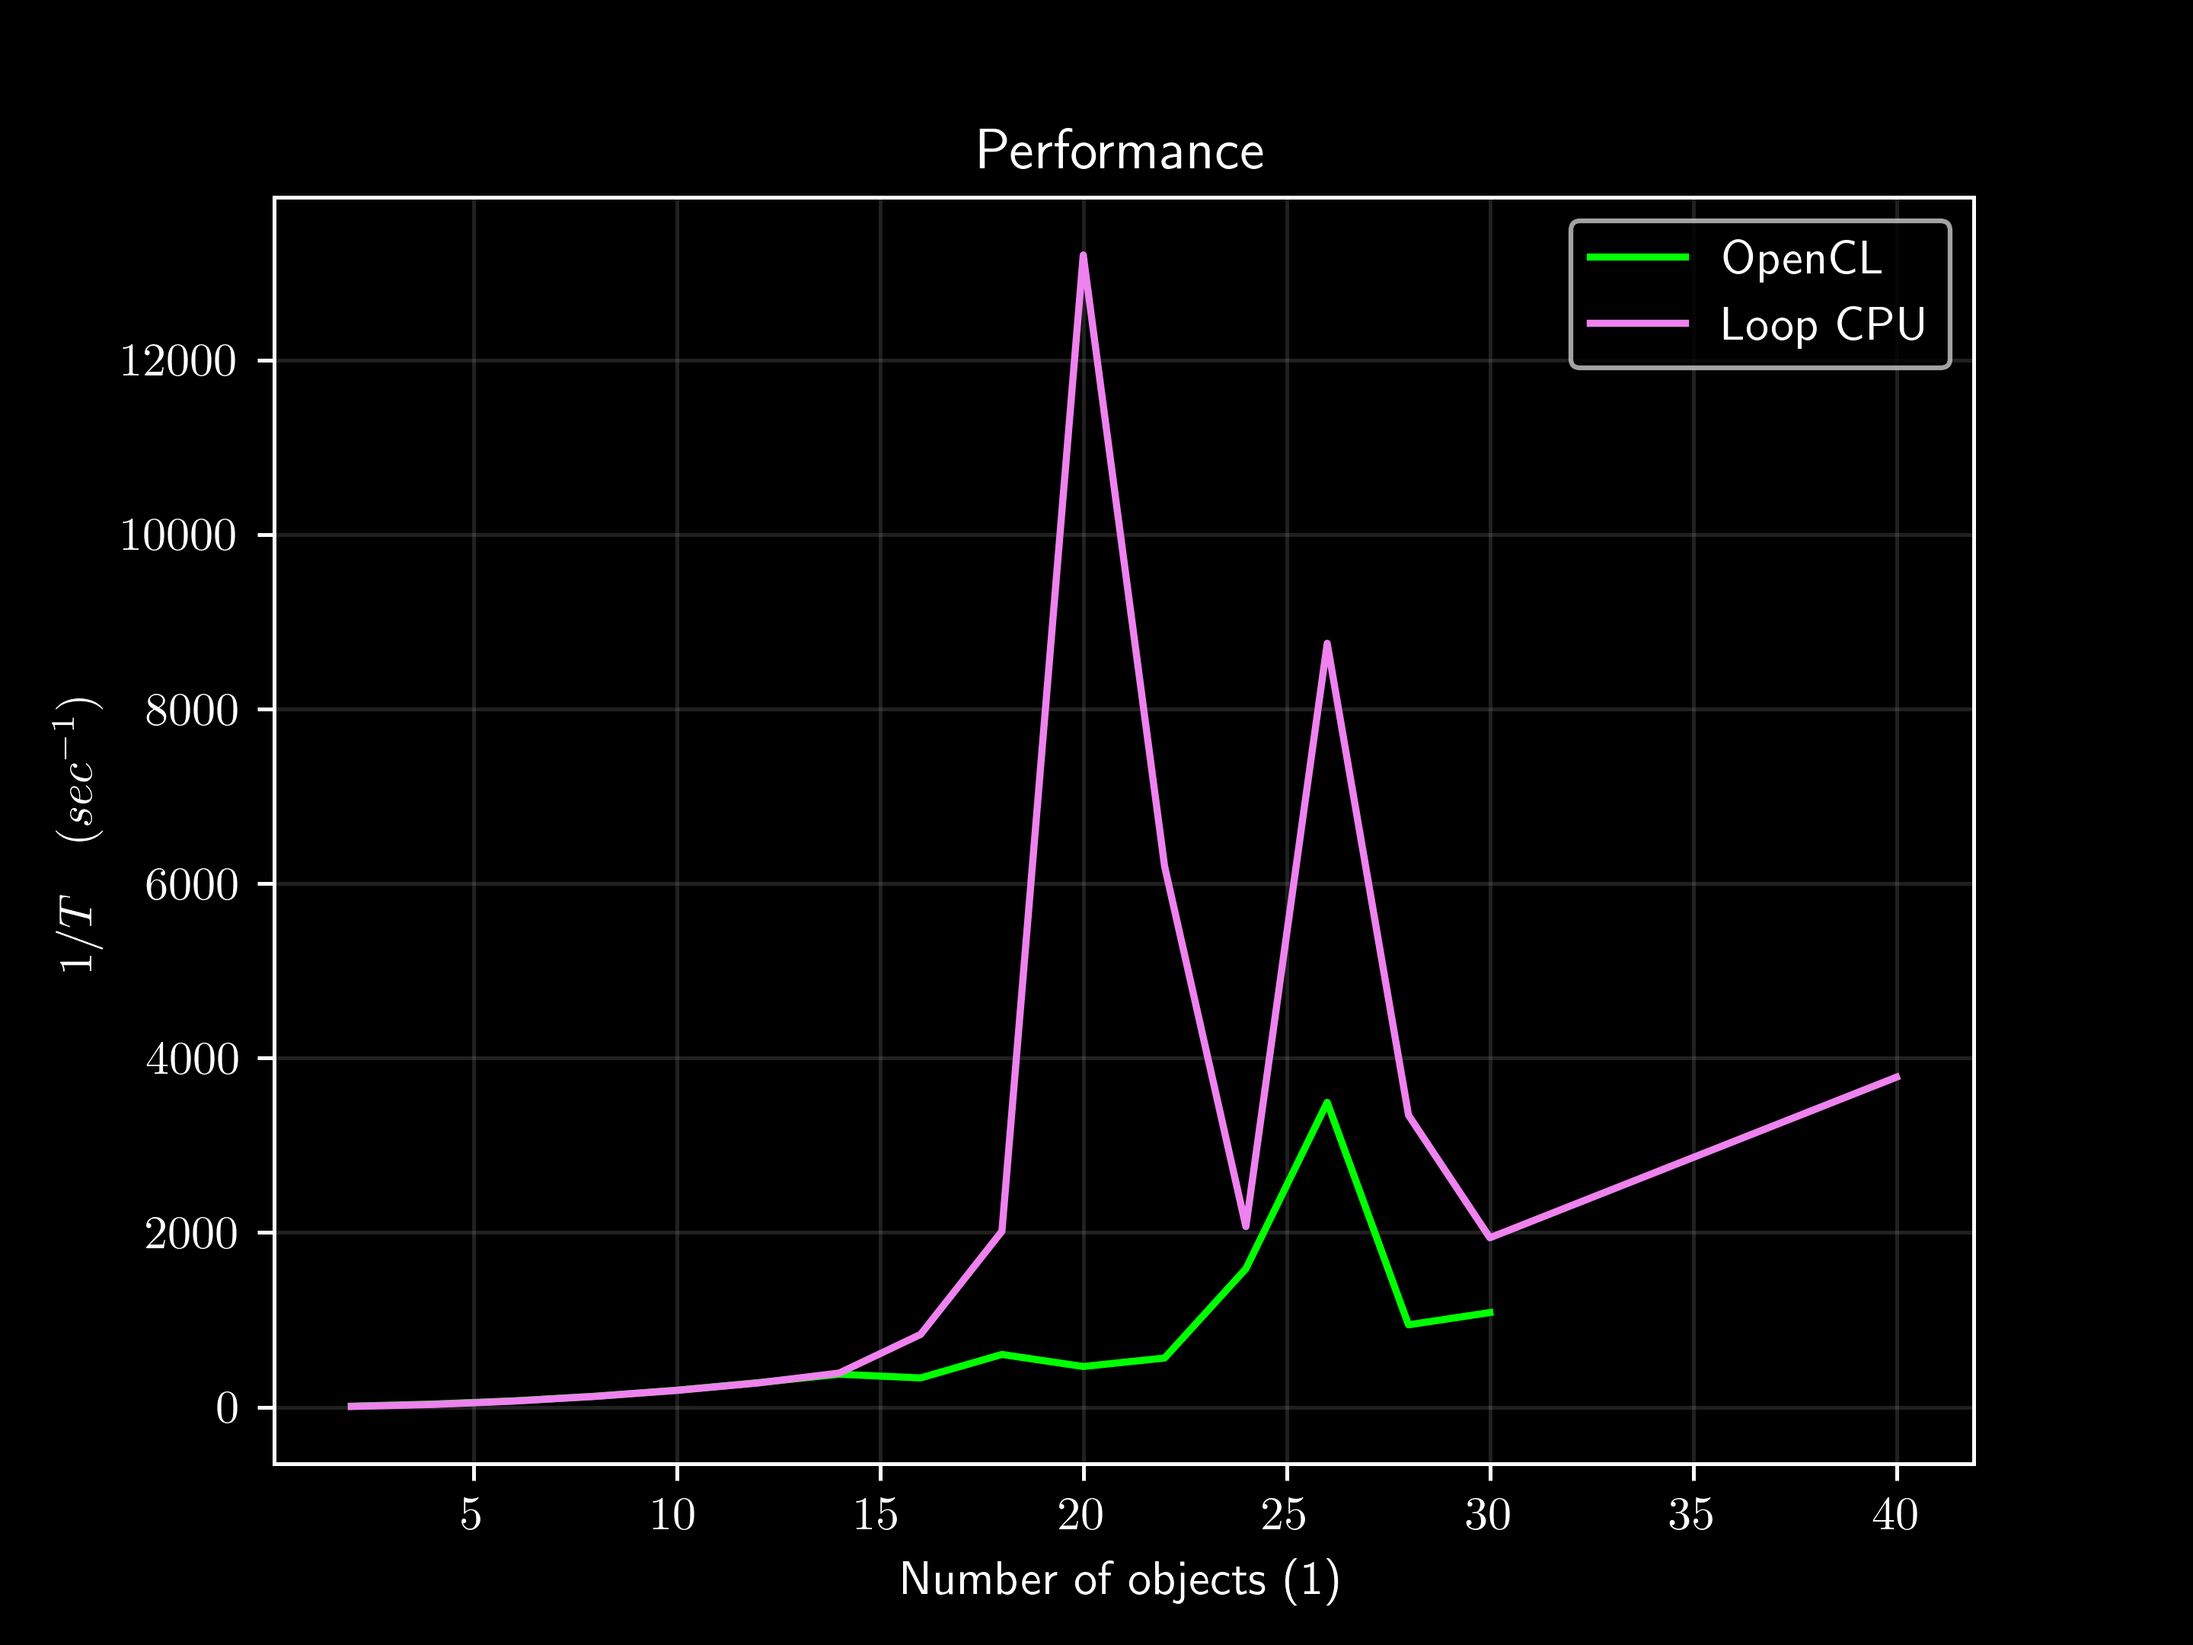
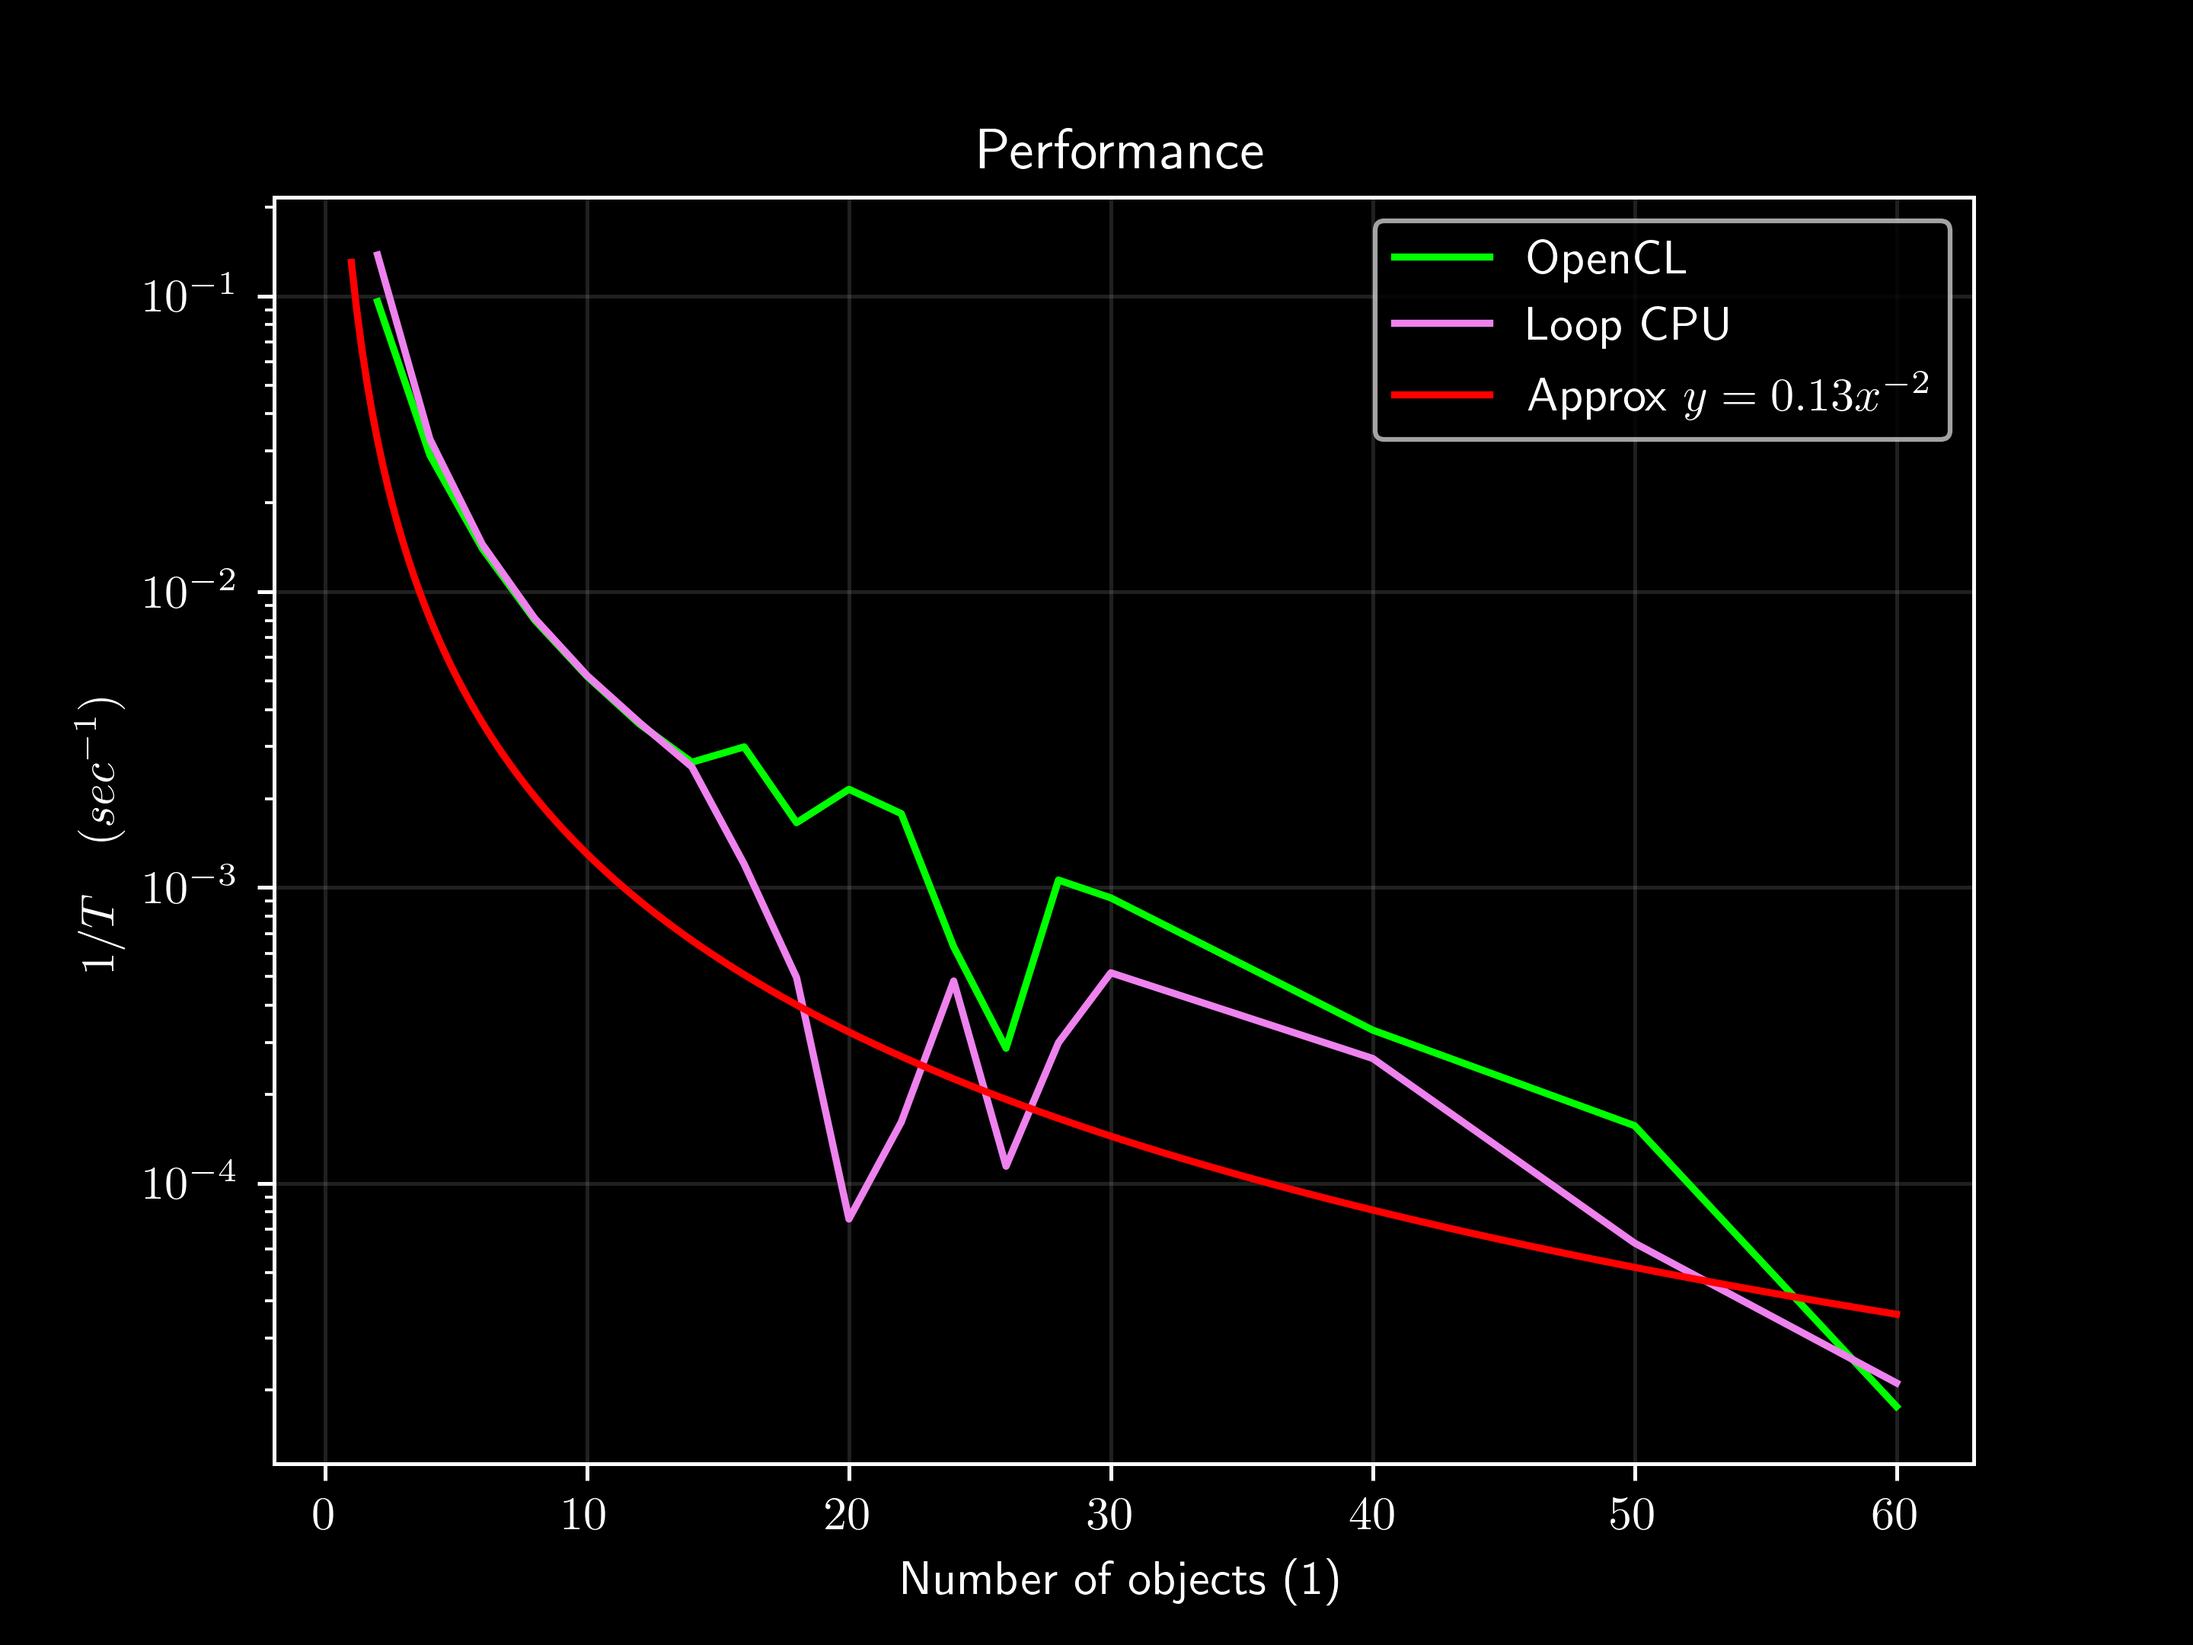
Little things.

diff --git a/Matrix/Matrixication.py b/Matrix/Matrixication.py
@@ -2,45 +2,61 @@ import pyopencl as cl
 import numpy as np
 import numpy.linalg as la
 import datetime
+import random
+import math
+
 
 def scal(v):  # Lenth of the vector
     return np.linalg.norm(v, ord=2)
-def v(v1): #вектор
+
+
+def v(v1):  # вектор
     v = np.array(v1)
     return v
-def unvec(v): #еденичный вектор
+
+
+def unvec(v):  # еденичный вектор
     uv = v / scal(v)
     return uv
-def dist(v1, v2): #расстояние между двумя точками (концами векторов v1 и v2)
-    return scal(v1-v2)
+
+
+def dist(v1, v2):  # расстояние между двумя точками (концами векторов v1 и v2)
+    return scal(v1 - v2)
+
+
 def v12(v1, v2):
-    return (v2-v1)
+    return (v2 - v1)
+
+
 def v12(v2, v1):
-    return (v1-v2)
-def ranvec(r): #Случайный радиус-вектор длинны r
-    rv = v(  [uniform(-r, r), 2*(getrandbits(1)-0.5) *(r**2 - uniform(-r, r)**2)**0.5]  )
+    return (v1 - v2)
+
+
+def ranvec(r):  # Случайный радиус-вектор длинны r
+    rv = v([uniform(-r, r), 2 * (getrandbits(1) - 0.5) * (r ** 2 - uniform(-r, r) ** 2) ** 0.5])
     return rv
-def ranrv(r): #Случайный радиус-вектор длинны r
-    a = uniform(0, 2*math.pi)
+
+
+def ranrv(r):  # Случайный радиус-вектор длинны r
+    a = uniform(0, 2 * math.pi)
     rr = uniform(0, r)
-    rv = v( [rr*math.cos(a), rr*math.sin(a)]  )
+    rv = v([rr * math.cos(a), rr * math.sin(a)])
     return rv
+
 
 def openCL_multiplication(matrix1, matrix2):
-
     ctx = cl.create_some_context()
     queue = cl.CommandQueue(ctx)
 
     mf = cl.mem_flags
     a_buf = cl.Buffer(ctx, mf.READ_ONLY | mf.COPY_HOST_PTR, hostbuf=matrix1)
     b_buf = cl.Buffer(ctx, mf.READ_ONLY | mf.COPY_HOST_PTR, hostbuf=matrix2)
-    dest_buf = cl.Buffer(ctx, mf.WRITE_ONLY, matrix1.nbytes )
-
+    dest_buf = cl.Buffer(ctx, mf.WRITE_ONLY, matrix1.nbytes)
 
     prg = cl.Program(ctx, """
         __kernel void multiplymatrices(const unsigned int size, __global float * matrix1, __global float * matrix2, __global float * res) {
     
-        int i = get_global_id(1); 
+        int i = get_global_id(1);
         int j = get_global_id(0);
     
         res[i + size * j] = 0;
@@ -52,29 +68,30 @@ def openCL_multiplication(matrix1, matrix2):
     
         }
         """).build()
-    #res[i + size * j] += matrix1[i + size * k] * matrix2[k + size * j];
+    # res[i + size * j] += matrix1[i + size * k] * matrix2[k + size * j];
 
     t0 = datetime.datetime.now()
 
-    prg.multiplymatrices(queue, matrix1.shape, None,np.int32(len(matrix1)) ,a_buf, b_buf, dest_buf)
+    prg.multiplymatrices(queue, matrix1.shape, None, np.int32(len(matrix1)), a_buf, b_buf, dest_buf)
 
     final_matrix = np.empty_like(matrix1)
-    cl.enqueue_copy(queue, final_matrix , dest_buf)
+    cl.enqueue_copy(queue, final_matrix, dest_buf)
 
-    print( final_matrix )
+    print(final_matrix)
 
     delta_t = datetime.datetime.now() - t0
-    print( 'OpenCL Multiplication: ' + str(delta_t) )
+    print('OpenCL Multiplication: ' + str(delta_t))
 
     return final_matrix
 
-def optimised_oCL_mult(matrix1, matrix2):
 
+def optimised_oCL_mult(matrix1, matrix2):
     # # Create two matrices
-    # A = np.random.rand(1000, 1000).astype(np.float32)
-    # B = np.random.rand(1000, 1000).astype(np.float32)
+    A = np.random.rand(1000, 1000).astype(np.float32)
+    B = np.random.rand(1000, 1000).astype(np.float32)
     A = matrix1.astype(np.float32)
     B = matrix2.astype(np.float32)
+    print(A)
 
     # Create OpenCL context and queue
     ctx = cl.create_some_context()
@@ -121,19 +138,19 @@ def optimised_oCL_mult(matrix1, matrix2):
 
 
 matrix1 = v([[0.99114645, 0.09327769, 0.90075564, 0.8913309],
-           [0.59739089, 0.13906649, 0.94246316, 0.65673178],
-           [0.24535166, 0.68942326, 0.41361505, 0.5789603],
-           [0.31962237, 0.17714553, 0.49025267, 0.21861202]] )
+             [0.59739089, 0.13906649, 0.94246316, 0.65673178],
+             [0.24535166, 0.68942326, 0.41361505, 0.5789603],
+             [0.31962237, 0.17714553, 0.49025267, 0.21861202]])
 
-matrix2 = v( [[0.99114645, 0.09327769, 0.90075564, 0.8913309],
-          [0.59739089, 0.13906649, 0.94246316, 0.65673178],
-          [0.24535166, 0.68942326, 0.41361505, 0.5789603],
-          [0.31962237, 0.17714553, 0.49025267, 0.21861202]] )
+matrix2 = v([[0.99114645, 0.09327769, 0.90075564, 0.8913309],
+             [0.59739089, 0.13906649, 0.94246316, 0.65673178],
+             [0.24535166, 0.68942326, 0.41361505, 0.5789603],
+             [0.31962237, 0.17714553, 0.49025267, 0.21861202]])
 
-res = v( [[1.57981943, 1.63210835, 2.12016045, 1.80288424],
-       [1.3391085, 1.15248911, 1.7403561, 1.58199609],
-       [1.31099532, 0.70041376, 1.20338154, 1.14162762],
-       [0.71769556, 0.52246746, 0.88158722, 0.8039138]] )
+res = v([[1.57981943, 1.63210835, 2.12016045, 1.80288424],
+         [1.3391085, 1.15248911, 1.7403561, 1.58199609],
+         [1.31099532, 0.70041376, 1.20338154, 1.14162762],
+         [0.71769556, 0.52246746, 0.88158722, 0.8039138]])
 
 openCL_multiplication(matrix1, matrix2)
 

diff --git a/Matrix/Generator.py b/Matrix/Generator.py
@@ -1,48 +1,65 @@
 import NBodyLib as nbl
 import numpy as np
 import sys
+
 original_stdout = sys.stdout
 
+
 # center - vector
-def spherical(N, center,  medium_radius, crit_radius_delta, medium_mass, crit_mass_delta, cen_velocity, vel_scal, vel_crit_delta):
+def spherical(N, center, medium_radius, crit_radius_delta, medium_mass, crit_mass_delta, cen_velocity, vel_scal,
+              vel_crit_delta):
     objects = []
-    for i in range (0, N):
-        st_der = crit_mass_delta/3
-        objects.append([str(i), np.random.normal(medium_mass, st_der), list(center + nbl.ranvec(medium_radius)), list(cen_velocity + nbl.ranvec(vel_scal)), i, 'system', 'w'])
-        #можно добавить дельту к medium_radius
+    for i in range(0, N):
+        st_der = crit_mass_delta / 3
+        objects.append([str(i), np.random.normal(medium_mass, st_der), list(center + nbl.ranvec(medium_radius)),
+                        list(cen_velocity + nbl.ranvec(vel_scal)), i, 'system', 'w'])
+        # можно добавить дельту к medium_radius
     # print(*objects, sep = "\n")
     return objects
 
-def spherical_sc(N, center,  medium_radius, crit_radius_delta, medium_mass, crit_mass_delta, cen_velocity, vel_scal, vel_crit_delta):
+
+def spherical_sc(N, center, medium_radius, crit_radius_delta, medium_mass, crit_mass_delta, cen_velocity, vel_scal,
+                 vel_crit_delta):
     objects = []
     type = "dynamic"
-    for i in range (0, N):
+    for i in range(0, N):
         st_der = crit_mass_delta / 3
-        objects.append([str(type), str(i), np.random.normal(medium_mass, st_der), list(center + nbl.ranvec(medium_radius))[0],
-                        list(center + nbl.ranvec(medium_radius))[1], list(cen_velocity + nbl.ranvec(vel_scal))[0], list(cen_velocity + nbl.ranvec(vel_scal))[1], 'w', 0])
+        objects.append(
+            [str(type), str(i), np.random.normal(medium_mass, st_der), list(center + nbl.ranvec(medium_radius))[0],
+             list(center + nbl.ranvec(medium_radius))[1], list(cen_velocity + nbl.ranvec(vel_scal))[0],
+             list(cen_velocity + nbl.ranvec(vel_scal))[1], 'w', 0])
     print(*objects, sep="\n")
     return objects
+
 
 def mass_vectors(objects):
     masses = []
     inv_masses = []
     for o in objects:
         masses.append(o[1])
-        inv_masses.append(1/o[1])
+        inv_masses.append(1 / o[1])
     return [masses, inv_masses]
+
+
 def position_matrix(objects):
     positions = []
     for o in objects:
         positions.append(nbl.v(o[2]))
     return positions
+
+
 def velocity_matrix(objects):
     velocities = []
+
     def vel(o):
         return nbl.v(o[3])
+
     for o in objects:
         velocities.append(nbl.v(o[3]))
     # return map(vel, objects)
     return velocities
+
+
 def mass_matrix(ms):
     mx = []
     for i in ms:
@@ -50,8 +67,10 @@ def mass_matrix(ms):
         for j in ms:
             ln.append(i * j)
         mx.append(ln)
-    #print(mx, 'mass matris')
+    # print(mx, 'mass matris')
     return nbl.v(mx)
+
+
 def mass_inv_matrix(ms):
     mx = []
     for i in ms:
@@ -62,9 +81,11 @@ def mass_inv_matrix(ms):
             if i != j:
                 ln.append(0)
         mx.append(ln)
-    #print(mx, 'inv mass matrix')
+    # print(mx, 'inv mass matrix')
     return nbl.v(mx)
-def write_objects(objects): # problem! Writes last object
+
+
+def write_objects(objects):  # Writes objects to System.txt
     with open('System.txt', 'w') as system:
         ps = []
         for p in objects:
@@ -74,14 +95,18 @@ def write_objects(objects): # problem! Writes last object
         print(*ps, sep="\n")
     system.close()
     sys.stdout = original_stdout
+
+
 def write_table(objects):
-    names = ["Type", "Name", "Mass", "R x", "R y", "V x", "Vy", "Color", "Angle (Deg)"] # str(type),
+    names = ["Type", "Name", "Mass", "R x", "R y", "V x", "Vy", "Color", "Angle (Deg)"]  # str(type),
     tab = nbl.pd.DataFrame(data=objects)
     tab.to_csv('Table.csv', header=names, index=False)
 
+
 def formatting(s):
-    #print(*s, sep="\n")
-    return [mass_matrix(mass_vectors(s)[0]), mass_inv_matrix(mass_vectors(s)[1]), nbl.v(position_matrix(s)), nbl.v(velocity_matrix(s))]
+    # print(*s, sep="\n")
+    return [mass_matrix(mass_vectors(s)[0]), mass_inv_matrix(mass_vectors(s)[1]), nbl.v(position_matrix(s)),
+            nbl.v(velocity_matrix(s))]
 # По порядку: матрица произведений масс, матрица обратных масс, вектор координат системы, вектор скоростей системы
 # если исполнить файл, то эта функция сгенирирует объекты заданных параметров
 

diff --git a/Matrix/Testing/Test plotter.py b/Matrix/Testing/Test plotter.py
@@ -12,10 +12,9 @@ ts = data["Time"]
 ns2 = data2["Number"]
 ts2 = data2["Time"]
 
-highres_ns = np.linspace(1, 40, 200)
-# print(highres_ns)
+highres_ns = np.linspace(1, 60, 300)
 
-aprx1 = lambda x: 0.1*(x**(-9/5)) # Approximation with POWER
+aprx1 = lambda x: 0.13*(x**(-2)) # Approximation with POWER
 aprx2 = lambda x: 0.723 * np.exp(-0.4529*x) # Approximation with EXP
 
 # tsa = list(map(aprx1, ns))
@@ -30,14 +29,14 @@ ax.set(xlabel=r'Number of objects (1)', ylabel=r'$1/T \quad (sec^{-1})$',
        title='Performance')
 ax.grid(True, color='grey', alpha=0.25)
 
-ax.plot(ns, ts, c="lime", label=r'OpenCL')
-ax.plot(ns2, ts2, c="violet", label=r'Loop CPU')
+ax.plot(ns, 1/ts, c="lime", label=r'OpenCL')
+ax.plot(ns2, 1/ts2, c="violet", label=r'Loop CPU')
 
-# ax2 = ax.twiny()
-# ax2.plot(highres_ns, tsa, c="red", label=r'Approx $y = 0.1x^{-1.8}$') # Approximation with POWER
+ax.plot(highres_ns, tsa, c="red", label=r'Approx $y = 0.13x^{-2}$') # Approximation with POWER
 # ax.plot(ns, tsa2, c="blue", label=(r'Approx $y = 0.7e^{-0.45x}$')) # Approximation with EXP
 
 plt.legend()
+# plt.semilogy()
 # fig.tight_layout()
 
 fig.savefig("Test Loop + OpenCl.png", dpi=450)

diff --git a/Matrix/Tester.py b/Matrix/Tester.py
@@ -30,7 +30,7 @@ pulse_table = config["Pulse table"]
 
 # --- --- LOOP FOR SIMULATIONS, getting T, N from each --- ---
 
-for i in range(40, 100, 10):
+for i in range(100, 102, 2):
     system = nbl.pd.read_csv('Table.csv')
     system = system[0:i]
     N = len(system)
@@ -65,4 +65,3 @@ for i in range(40, 100, 10):
 print('finish!')
 print('All saved in ', dir_n)
 time_data = nbl.pd.DataFrame(test_data)
-

diff --git a/Matrix/Matrix_3.py b/Matrix/Matrix_3.py
@@ -60,5 +60,3 @@ def simulation(method, matrices, dir, end, h):
     # print("--- %s seconds ---" % (time.time() - test1_time))
 
 # --- One more matrix code
-
-def
